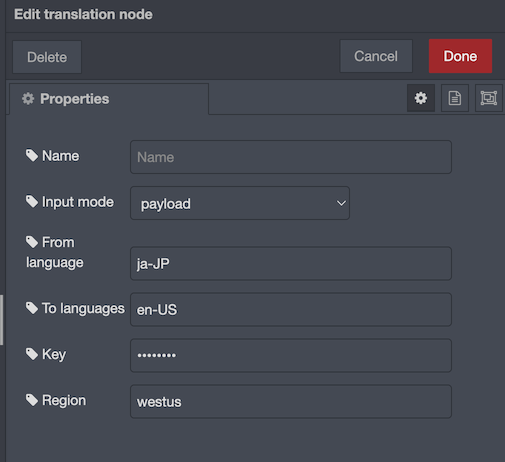
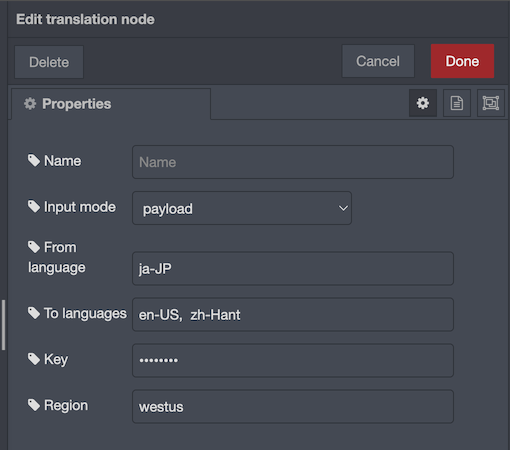
Trim toLanguages

diff --git a/translation/translation-driver.js b/translation/translation-driver.js
@@ -59,6 +59,11 @@ class TranslationDriver extends ConfigGenerator{
         if (!toLanguagesRegex.test(toLanguages)) throw new Error('To languages field must be a string of single or multiple languages separated by comma,' +
             'ex. en-US or en-US,de-DE');
 
+        // trim the language string, spaces will cause errors
+        for (let i = 0; i < toLanguages.length; i++) {
+            toLanguages[i] = toLanguages[i].trim();
+        }
+
         return [fromLanguage, toLanguages];
     }
 

diff --git a/README.md b/README.md
@@ -5,9 +5,26 @@
 `npm install @intres/azure-cognitive`
 ## Example usage (combinations of text-to-speech, speech-to-text and speech translation)
 The example flow is as follows:
-![Example flow](https://github.com/uwtintres/azure-cognitive/blob/main/img/upload/example-flow.png?raw=true)
-In this example, Inject node injects a string of Japanese "みんなで行きましょう。" to text-to-speech node. The text-to-speech node will convert it to English and send the speech
-binary content to both speech-to-text and translation node.
 
-#### Config of text-to-speech-node
-![text-to-speech](https://github.com/uwtintres/azure-cognitive/blob/main/img/upload/text-to-speech.png?raw=true)
+![Example flow](https://github.com/uwtintres/azure-cognitive/blob/main/img/example-flow.png?raw=true)
+
+In this example, Inject node injects a string of Japanese "みんなで行きましょう。" to text-to-speech node. The text-to-speech node will convert it to English and send the speech
+binary content to three nodes: an audio out node from **node-red-ui**, speech-to-text and translation node.
+
+#### Config of text-to-speech node
+![text-to-speech](https://github.com/uwtintres/azure-cognitive/blob/main/img/text-to-speech.png?raw=true)
+
+The node accepts the text to be converted to speech by `msg.payload` when **input mode** is set to **payload**. For the list of supported synthesis voice, please check the official [supported languages and voices](https://docs.microsoft.com/en-us/azure/cognitive-services/speech-service/language-support?tabs=speechtotext#text-to-speech)
+for more information. In this example, ja-JP-NanamiNeural is used. Note that mistyping voice name could lead to uncertain errors(check the bottom section).
+
+#### Config of speech-to-text node
+![speech-to-text](https://github.com/uwtintres/azure-cognitive/blob/main/img/speech-to-text.png?raw=true)
+
+The config of speech-to-text node is similar to text-to-speech. Here the node will accept a speech binary content by `msg.payload`, try to recognize the speech using Japanese(we set **From language** to ja-JP) and output a string of recognized text as `msg.payload`.
+For all supported languages and its locale variants, check the link in the above section for more information. You should be able to see the recognized text in the debug sidebar, and it should be the same as the text we fired from Inject node
+in the beginning.
+
+#### Config of translation node
+![translation](https://github.com/uwtintres/azure-cognitive/blob/main/img/translation.png?raw=true)
+
+The translation node accepts a speech binary content as 
